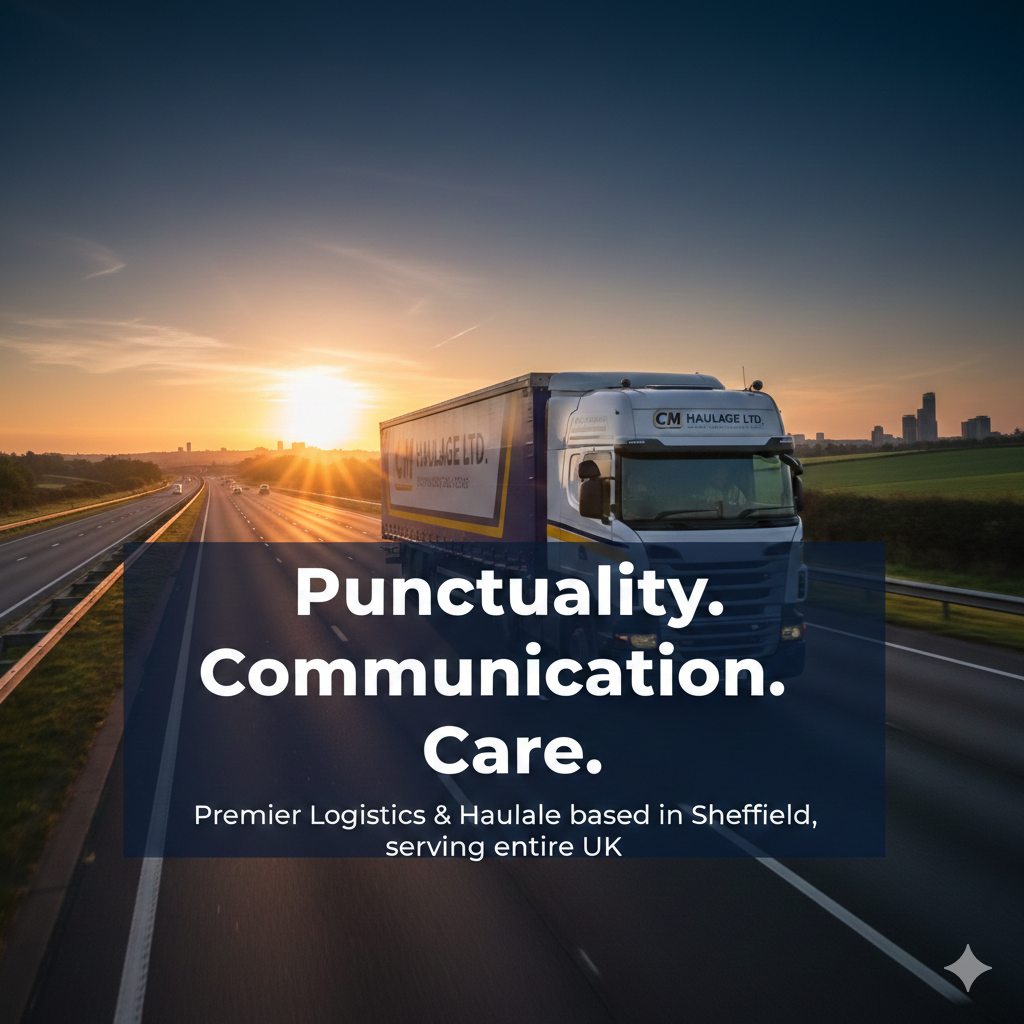
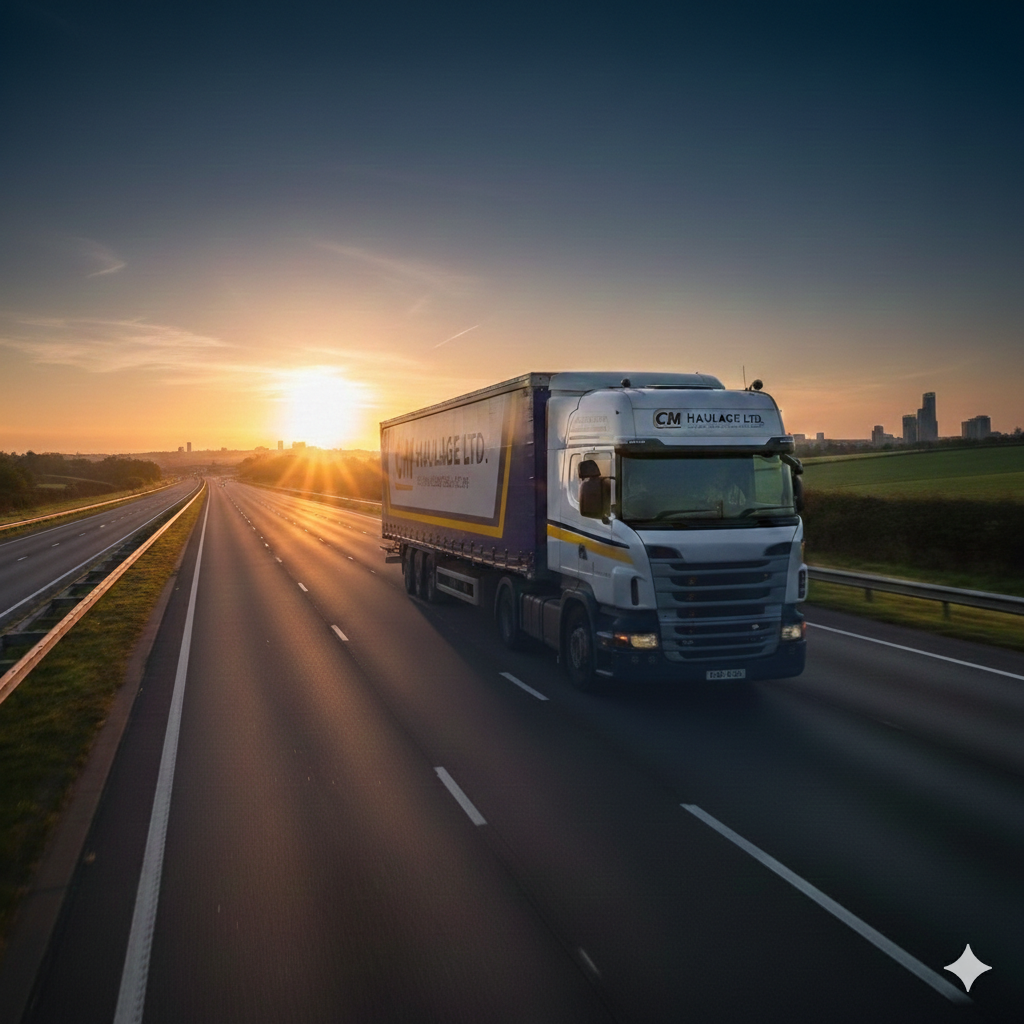
Added picture to home page

Changed region(s): [[0.0938, 0.4688, 0.875, 0.8438], [0.9062, 0.9062, 0.9688, 0.9688]]

diff --git a/fleet.html b/fleet.html
@@ -68,7 +68,7 @@
 
             <div class="carousel-inner">
                 <div class="carousel-item active" data-bs-interval="5000">
-                    <img src="images/CDQV5931.jpg" class="d-block w-100 fleet-banner-img" alt="Luton Van">
+                    <img src="assets/images/CDQV5931.jpg" class="d-block w-100 fleet-banner-img" alt="Luton Van">
                     <div class="carousel-caption d-none d-md-block bg-navy-overlay p-4 rounded text-start">
                         <h3 class="text-yellow fw-bold">Luton Vans</h3>
                         <p class="mb-0">Max Payload: 1,200kg | 6-Pallet Capacity | Electric Tail Lift</p>
@@ -76,7 +76,7 @@
                 </div>
 
                 <div class="carousel-item" data-bs-interval="5000">
-                    <img src="images/PFAM6200.jpg" class="d-block w-100 fleet-banner-img" alt="7.5 Tonne Truck">
+                    <img src="assets/images/PFAM6200.jpg" class="d-block w-100 fleet-banner-img" alt="7.5 Tonne Truck">
                     <div class="carousel-caption d-none d-md-block bg-navy-overlay p-4 rounded text-start">
                         <h3 class="text-yellow fw-bold">7.5 Tonne Vehicles</h3>
                         <p class="mb-0">Workhorse for pallet distribution and larger retail deliveries.</p>
@@ -84,7 +84,7 @@
                 </div>
 
                 <div class="carousel-item" data-bs-interval="5000">
-                    <img src="images/HSNB4474.jpg" class="d-block w-100 fleet-banner-img" alt="18 Tonne Rigid">
+                    <img src="assets/images/HSNB4474.jpg" class="d-block w-100 fleet-banner-img" alt="18 Tonne Rigid">
                     <div class="carousel-caption d-none d-md-block bg-navy-overlay p-4 rounded text-start">
                         <h3 class="text-yellow fw-bold">18 Tonne Rigid Vehicles</h3>
                         <p class="mb-0">Max Payload: 9,000kg | 14-16 Pallet Capacity | Versatile heavy-load transport.</p>
@@ -100,6 +100,27 @@
                 <span class="carousel-control-next-icon" aria-hidden="true"></span>
                 <span class="visually-hidden">Next</span>
             </button>
+        </div>
+    </div>
+</section>
+<section class="py-4 bg-white border-top">
+    <div class="container">
+        <div class="row justify-content-center">
+            <div class="col-lg-10">
+                <div class="d-flex align-items-center p-4 border rounded bg-light shadow-sm">
+                    <div class="flex-shrink-0 me-4 d-none d-md-block">
+                        <i class="fa-solid fa-circle-info text-navy display-6"></i>
+                    </div>
+                    <div>
+                        <h5 class="fw-bold text-navy mb-1 Montserrat">Looking for Articulated Vehicles?</h5>
+                        <p class="mb-0 Roboto text-muted">
+                            While our core fleet consists of Luton, 7.5t, and 18t vehicles, 
+                            <strong>larger vehicles (including 26t and 44t Artics) may be available</strong> 
+                            with sufficient notice. Please contact our Sheffield hub directly to discuss high-volume logistics requirements.
+                        </p>
+                    </div>
+                </div>
+            </div>
         </div>
     </div>
 </section>

diff --git a/index.html b/index.html
@@ -50,25 +50,25 @@
     </div>
 </nav>
 
-<header class="hero-banner">
-    <div class="container">
-        <div class="row justify-content-center">
-            <div class="col-lg-10 text-center">
-                <h1 class="display-3 fw-bold mb-3 text-uppercase Montserrat">
-                    Punctuality. Communication. <span class="text-yellow">Care.</span>
-                </h1>
-                <p class="lead mb-5 fs-4 Roboto">
-                    Premier Logistics & Haulage based in Sheffield, serving the entire UK with a modern, reliable fleet.
-                </p>
-                <div class="d-grid gap-3 d-md-flex justify-content-md-center">
-                    <a href="booking.html" class="btn btn-yellow btn-lg px-5 py-3 shadow">Request a Quote</a>
-                    <a href="services.html" class="btn btn-outline-light btn-lg px-5 py-3">Explore Services</a>
-                </div>
+<header class="hero-section position-relative overflow-hidden">
+    <img src="assets/images/hero-image-banner.png" class="hero-img" alt="CM Haulage fleet on UK motorway">
+    
+    <div class="hero-overlay"></div>
+
+    <div class="container position-relative h-100 d-flex align-items-center justify-content-center text-center">
+        <div class="text-white">
+            <div class="mb-4">
+                <i class="fa-solid fa-truck-fast display-1 text-yellow"></i>
+            </div>
+            <h1 class="display-3 fw-bold mb-3 Montserrat">Punctuality. Communication. Care.</h1>
+            <p class="lead mb-4 fs-4 Roboto">Premier Logistics & Haulage based in Sheffield, serving the entire UK.</p>
+            <div class="d-grid gap-3 d-md-block">
+                <a href="booking.html" class="btn btn-yellow btn-lg px-5 py-3 shadow">Request a Quote</a>
+                <a href="services.html" class="btn btn-outline-light btn-lg px-5 py-3">Our Services</a>
             </div>
         </div>
     </div>
 </header>
-
 <section class="py-5 bg-white">
     <div class="container text-center">
         <h2 class="fw-bold text-navy mb-5 Montserrat">Our Three Principles</h2>

diff --git a/assets/style/style.css b/assets/style/style.css
@@ -36,18 +36,33 @@ h1, h2, h3, .navbar-brand {
     transform: translateY(-2px);
 }
 
-/* Hero Banner Styling */
-.hero-banner {
-    background: linear-gradient(rgba(0, 20, 50, 0.7), rgba(0, 20, 50, 0.7)), 
-                url('../images/hero-image-banner.jpg'); 
-    background-size: cover;
-    background-position: center;
-    background-attachment: fixed; 
-    padding: 100px 0;
-    color: white;
-    min-height: 80vh;
-    display: flex;
-    align-items: center;
+.hero-section {
+    height: 85vh; /* Sets the height of the hero area */
+    width: 100%;
+}
+
+.hero-img {
+    position: absolute;
+    top: 0;
+    left: 0;
+    width: 100%;
+    height: 100%;
+    object-fit: cover; /* This makes it act like a background-image */
+    z-index: 1;
+}
+
+.hero-overlay {
+    position: absolute;
+    top: 0;
+    left: 0;
+    width: 100%;
+    height: 100%;
+    background: rgba(26, 43, 72, 0.7); /* Your Brand Navy at 70% opacity */
+    z-index: 2;
+}
+
+.hero-section .container {
+    z-index: 3; /* Keeps the text above the image and the overlay */
 }
 
 .text-yellow {
